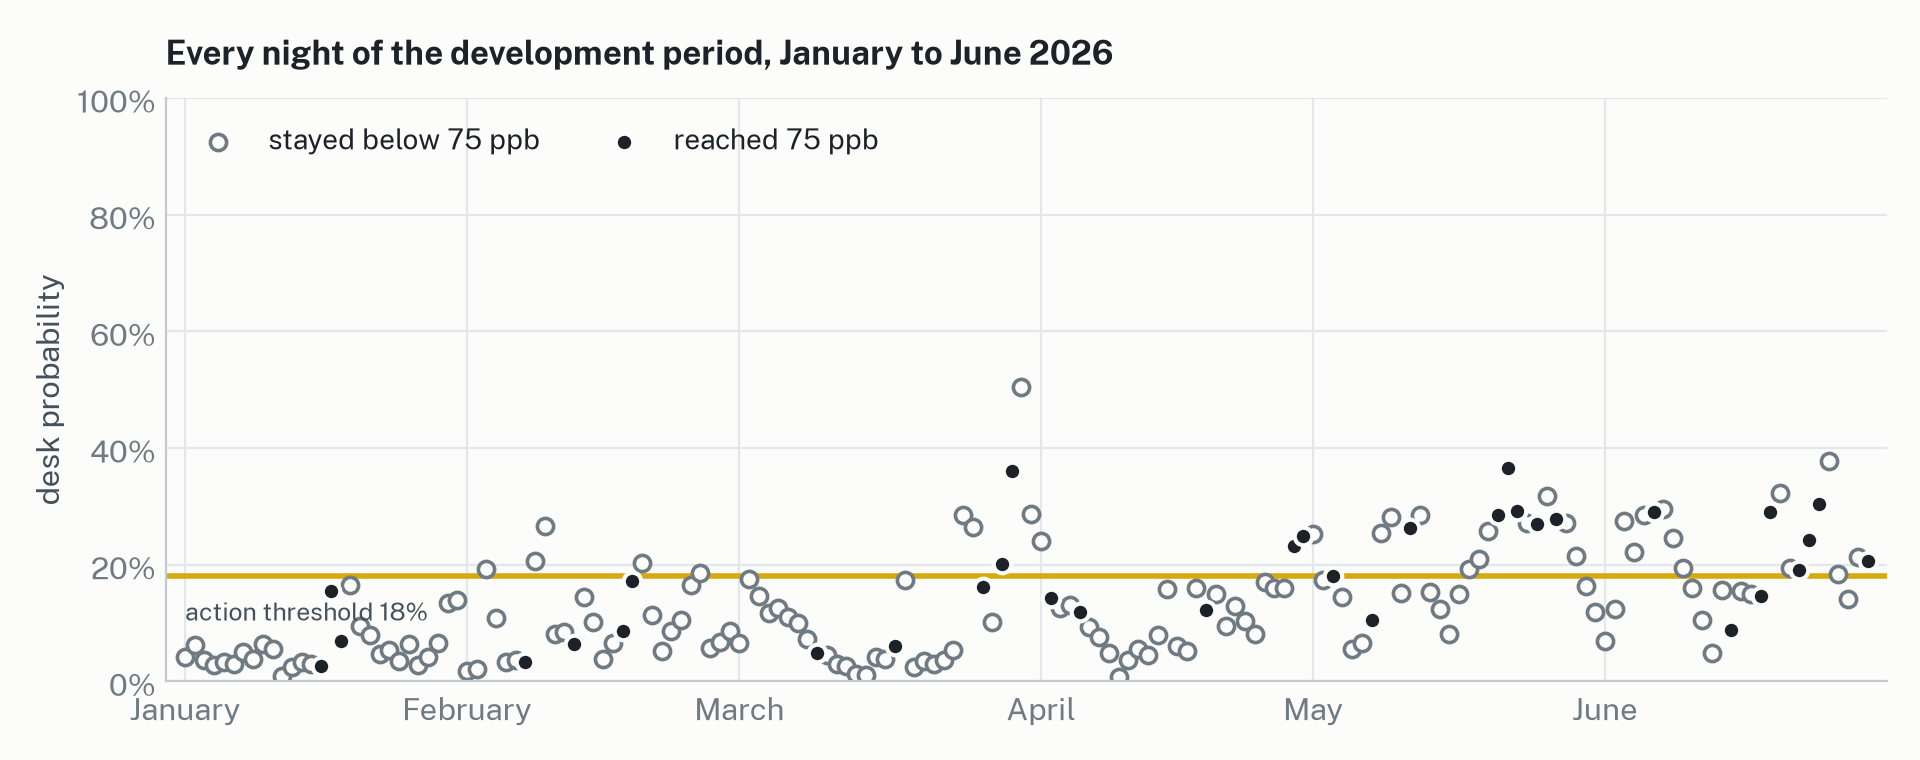
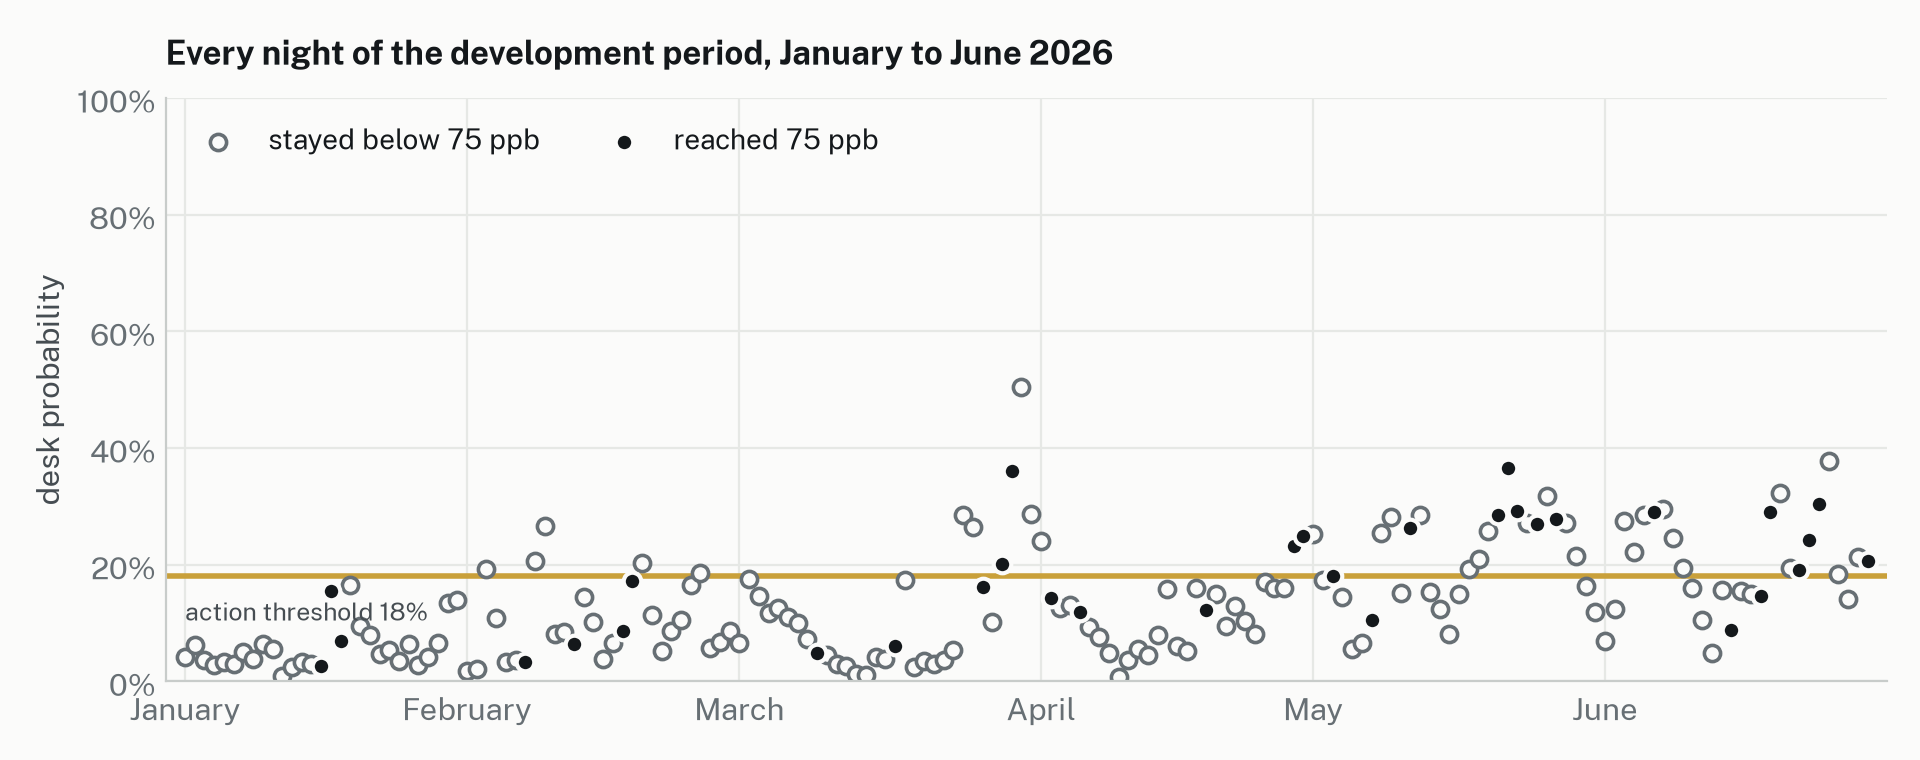
Result figures in the page's palette (series colours checked together on the surface); the level dot on the decision card sits beside the first line of a wrapped title

Changed region(s): [[0.0938, 0.7566, 0.9375, 0.7868]]

diff --git a/web/index.html b/web/index.html
@@ -85,8 +85,8 @@ a:focus-visible, select:focus-visible, button:focus-visible, [tabindex]:focus-vi
 /* The decision first, in the plan's colour, then the number, then the same number as 100 nights. */
 .decision { margin-top: 6px; }
 .decision .band { background: var(--card); color: var(--card-ink); border-radius: 12px; padding: 18px 22px 18px 20px; box-shadow: 0 1px 0 rgba(255, 255, 255, .04) inset; }
-.decision .band strong { display: flex; align-items: center; gap: 12px; font-size: 24px; font-weight: 800; letter-spacing: -0.01em; color: var(--card-ink); }
-.decision .band strong::before { content: ""; flex: none; width: 12px; height: 12px; border-radius: 50%; background: var(--lv); box-shadow: 0 0 0 4px color-mix(in srgb, var(--lv) 28%, transparent); }
+.decision .band strong { display: flex; align-items: flex-start; gap: 12px; font-size: 24px; line-height: 1.25; font-weight: 800; letter-spacing: -0.01em; color: var(--card-ink); }
+.decision .band strong::before { content: ""; flex: none; margin-top: 9px; width: 12px; height: 12px; border-radius: 50%; background: var(--lv); box-shadow: 0 0 0 4px color-mix(in srgb, var(--lv) 28%, transparent); }
 .decision .band p { margin: 6px 0 0 24px; color: var(--card-ink-2); font-size: 15.5px; max-width: 54ch; }
 .decision .odds { display: grid; grid-template-columns: minmax(0, 1fr) auto; gap: 24px; align-items: center; margin-top: 22px; }
 .decision .num .big { display: block; font-size: clamp(64px, 7.4vw, 96px); font-weight: 800; line-height: 0.95; letter-spacing: -0.035em; font-variant-numeric: tabular-nums; }

diff --git a/scripts/figures.py b/scripts/figures.py
@@ -24,8 +24,8 @@ ROOT = Path(__file__).resolve().parents[1]
 FIG = ROOT / "docs" / "figures"
 FONTS = ROOT / "assets" / "fonts"
 
-SURFACE, INK, INK2, MUTED, GRID, AXIS = "#fcfcfb", "#1c2227", "#46525b", "#6f7a82", "#e3e7e9", "#c3cacf"
-DESK, MODEL, RECENT, NOREVIEW = "#2a78d6", "#eb6834", "#1baf7a", "#8c98a0"
+SURFACE, INK, INK2, MUTED, GRID, AXIS = "#fbfbfa", "#14181b", "#464d52", "#676f74", "#e6e8e5", "#c8ccca"
+DESK, MODEL, RECENT, NOREVIEW = "#2463a0", "#b65f30", "#1f8a6e", "#8a9196"  # validated together on SURFACE
 T_STAR = 0.18
 EDGES = np.array([0.0, 0.1, 0.2, 0.3, 0.4, 0.5, 0.7, 1.0001])
 
@@ -115,7 +115,7 @@ def brier_bars(ax, full: pd.DataFrame, nr: pd.DataFrame) -> None:
 
 def nights_dots(ax, full: pd.DataFrame) -> None:
     d = full.reset_index(drop=True); x = np.arange(len(d)); p = d["p"].to_numpy(float); ev = d["y"].to_numpy() == 1
-    ax.axhline(T_STAR, color="#d6a90e", lw=2, zorder=1)
+    ax.axhline(T_STAR, color="#c9a03a", lw=2, zorder=1)
     ax.text(0, T_STAR - 0.035, f"action threshold {T_STAR:.0%}", fontsize=9, color=INK2, va="top")
     ax.scatter(x[~ev], p[~ev], s=34, facecolor=SURFACE, edgecolor=MUTED, linewidth=1.3, zorder=2, label="stayed below 75 ppb")
     ax.scatter(x[ev], p[ev], s=40, facecolor=INK, edgecolor=SURFACE, linewidth=1.5, zorder=3, label="reached 75 ppb")
